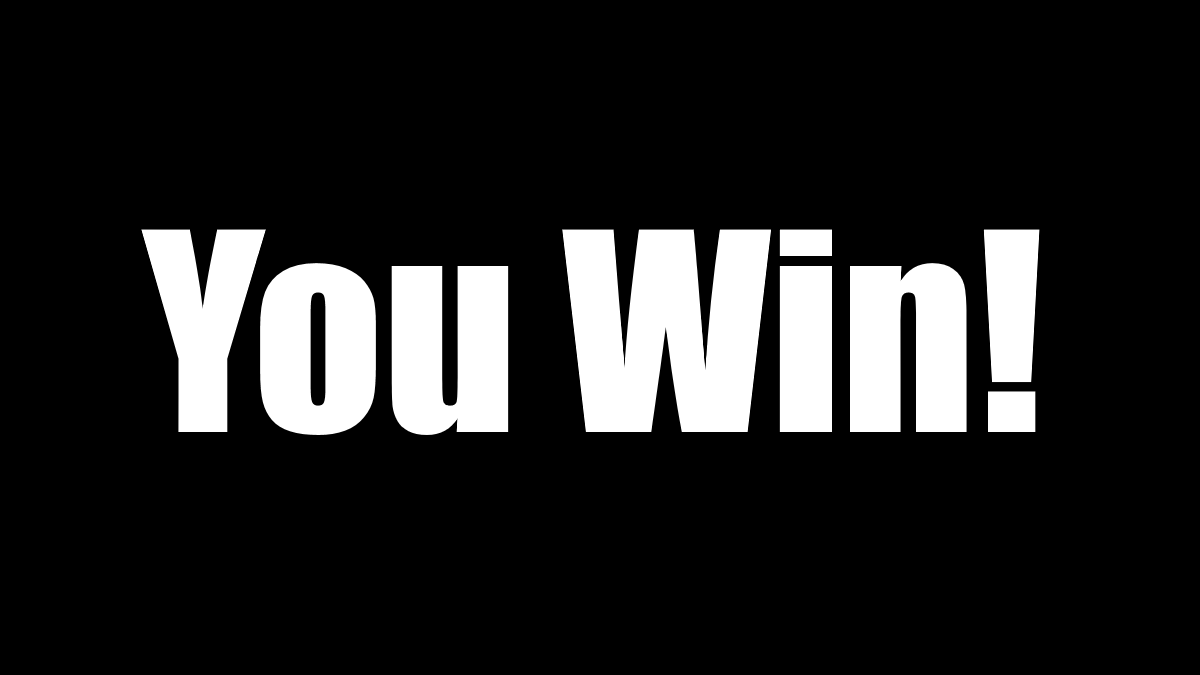
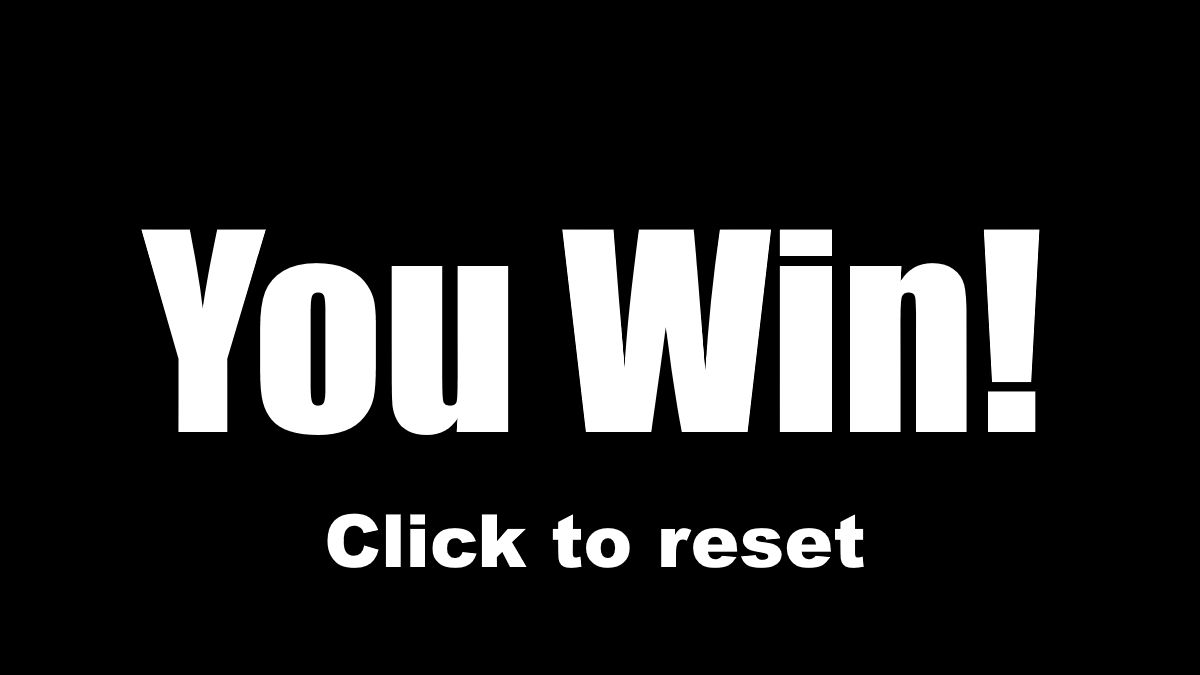
Made Win-/Losescreen clickable Changed how Levelbuttons work

Changed region(s): [[0.4625, 0.7467, 0.74, 0.84], [0.2467, 0.7467, 0.4317, 0.84]]

diff --git a/MainMenu.java b/MainMenu.java
@@ -6,8 +6,8 @@ import greenfoot.*;  // (World, Actor, GreenfootImage, Greenfoot and MouseInfo)
  * @version 1.0
  */
 public class MainMenu extends World {
-    Levelbutton Level1 = new Levelbutton(1); //Button für Level 1
-    Levelbutton Level2 = new Levelbutton(2); //Button für Level 2
+    Levelbutton Level1 = new Levelbutton(); //Button für Level 1
+    Levelbutton Level2 = new Levelbutton(); //Button für Level 2
     
     /**
      * Constructor für Mainmenu
@@ -17,5 +17,18 @@ public class MainMenu extends World {
         
         addObject(Level1, 427, 600);
         addObject(Level2, 1173, 600);
+    }
+    
+    /**
+     * Act-Methode für MainMenu:<br>
+     * -Beim anklicken der Levelbuttons, wird das jeweilige Level erstellt
+     */
+    public void act() {
+        if (Greenfoot.mouseClicked(Level1)) {
+            Greenfoot.setWorld(new Level_1());
+        }
+        else if (Greenfoot.mouseClicked(Level2)) {
+            Greenfoot.setWorld(new Level_2());
+        }
     }
 }

diff --git a/Levelbutton.java b/Levelbutton.java
@@ -6,27 +6,5 @@ import greenfoot.*;  // (World, Actor, GreenfootImage, Greenfoot and MouseInfo)
  * @version 1.0
  */
 public class Levelbutton extends GUI {
-    private int levelNumber; //Levelnummer
-    
-    /**
-     * Constructor für Levelbutton:<br>
-     * -speichert die Nummer des Levels, für welches der Button funktioniert
-     * @param pLevelNumber  Nummer des Levels
-     */
-    public Levelbutton(int pLevelNumber) {
-        levelNumber = pLevelNumber;
-    }
-    
-    /**
-     * Act-Methode für Levelbutton:<br>
-     * -Beim anklicken, wird je nach dem gespeicherten Level die Welt gesetzt
-     */
-    public void act() {
-        if (Greenfoot.mouseClicked(this)) {
-            switch (levelNumber) {
-                case 1: Greenfoot.setWorld(new Level_1()); break;
-                case 2: Greenfoot.setWorld(new Level_2()); break;
-            }
-        }
-    }
+    //hmmm
 }

diff --git a/Screen.java b/Screen.java
@@ -6,5 +6,9 @@ import greenfoot.*;  // (World, Actor, GreenfootImage, Greenfoot and MouseInfo)
  * @version 1.0
  */
 public class Screen extends GUI {
-    //cool
+    public void act() {
+        if (Greenfoot.mouseClicked(this)) {
+            Greenfoot.setWorld(new MainMenu());
+        }
+    }
 }
